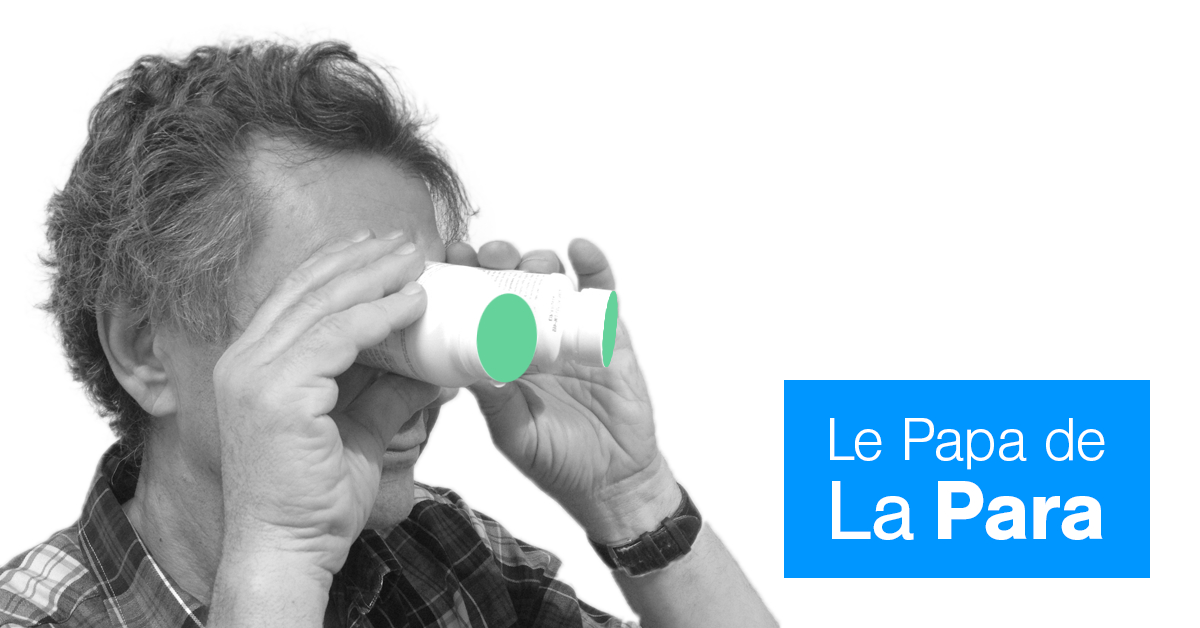
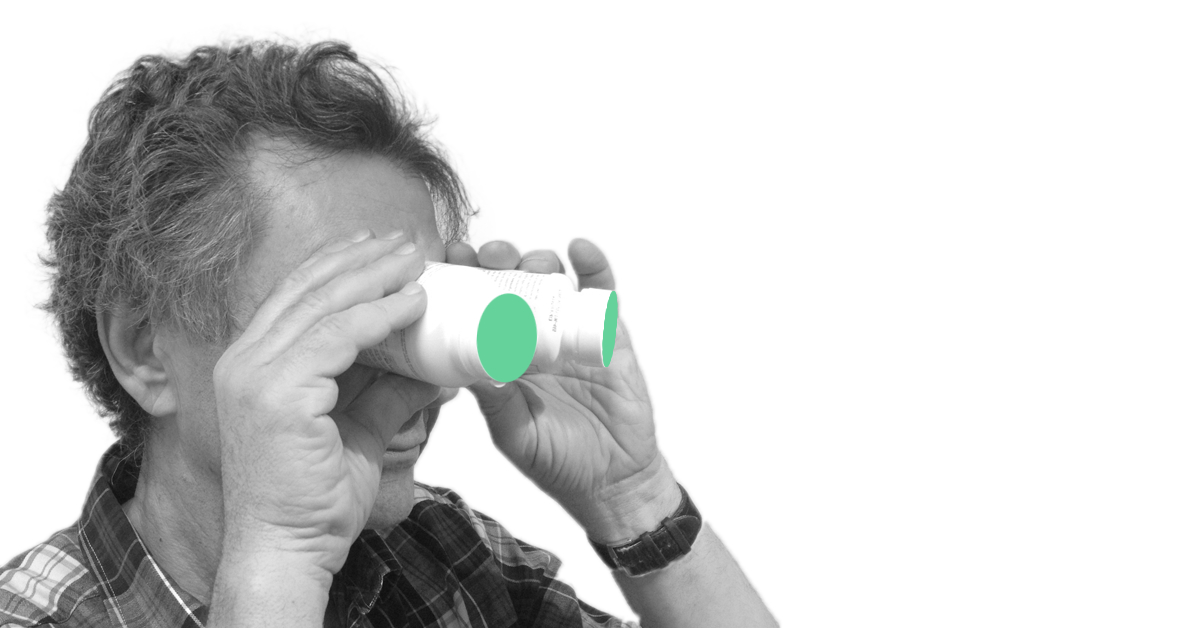
~ la parapharmacie

Changed region(s): [[0.6475, 0.6051, 0.9558, 0.9379]]

diff --git a/projects/la-parapharmacie.php b/projects/la-parapharmacie.php
@@ -20,7 +20,7 @@
 
       <?php $path = $_SERVER['DOCUMENT_ROOT']; $path .= "/includes/navbar.php"; include_once($path); ?>
 
-      <div class="project-jumbotron" style="background-image: url('/assets/img/mimib/mimib-photo-1.jpg')"></div>
+      <div class="project-jumbotron" style="background-image: url('/assets/img/la-parapharmacie/la-parapharmacie-le-papa-de-la-para.jpg')"></div>
 
     </header>
 
@@ -84,8 +84,6 @@
             <div class="bit-1">
 
               <img class="bit-1 img-1-1 lazy mg-t" src="/assets/svg/la-parapharmacie-logo.svg">
-
-              <img class="bit-1 img-2-1 lazy" src="/assets/img/la-parapharmacie/la-parapharmacie-le-papa-de-la-para.jpg" width="100%">
 
               <img class="bit-2 img-1-1 lazy" src="/assets/img/la-parapharmacie/la-parapharmacie-vitrine-allergy.jpg">
               <img class="bit-2 img-1-1 lazy" src="/assets/img/la-parapharmacie/la-parapharmacie-vitrine-digestion.jpg">

diff --git a/work.php b/work.php
@@ -50,7 +50,7 @@
           </a>
 
           <a href="/projects/la-parapharmacie.php">
-            <div class="bit-3 img-1-1 lazy" data-original="/assets/img/la-parapharmacie.jpg"></div>
+            <img class="bit-3 img-1-1 lazy" src="/assets/svg/la-parapharmacie-logo.svg">
           </a>
         
         </section>
